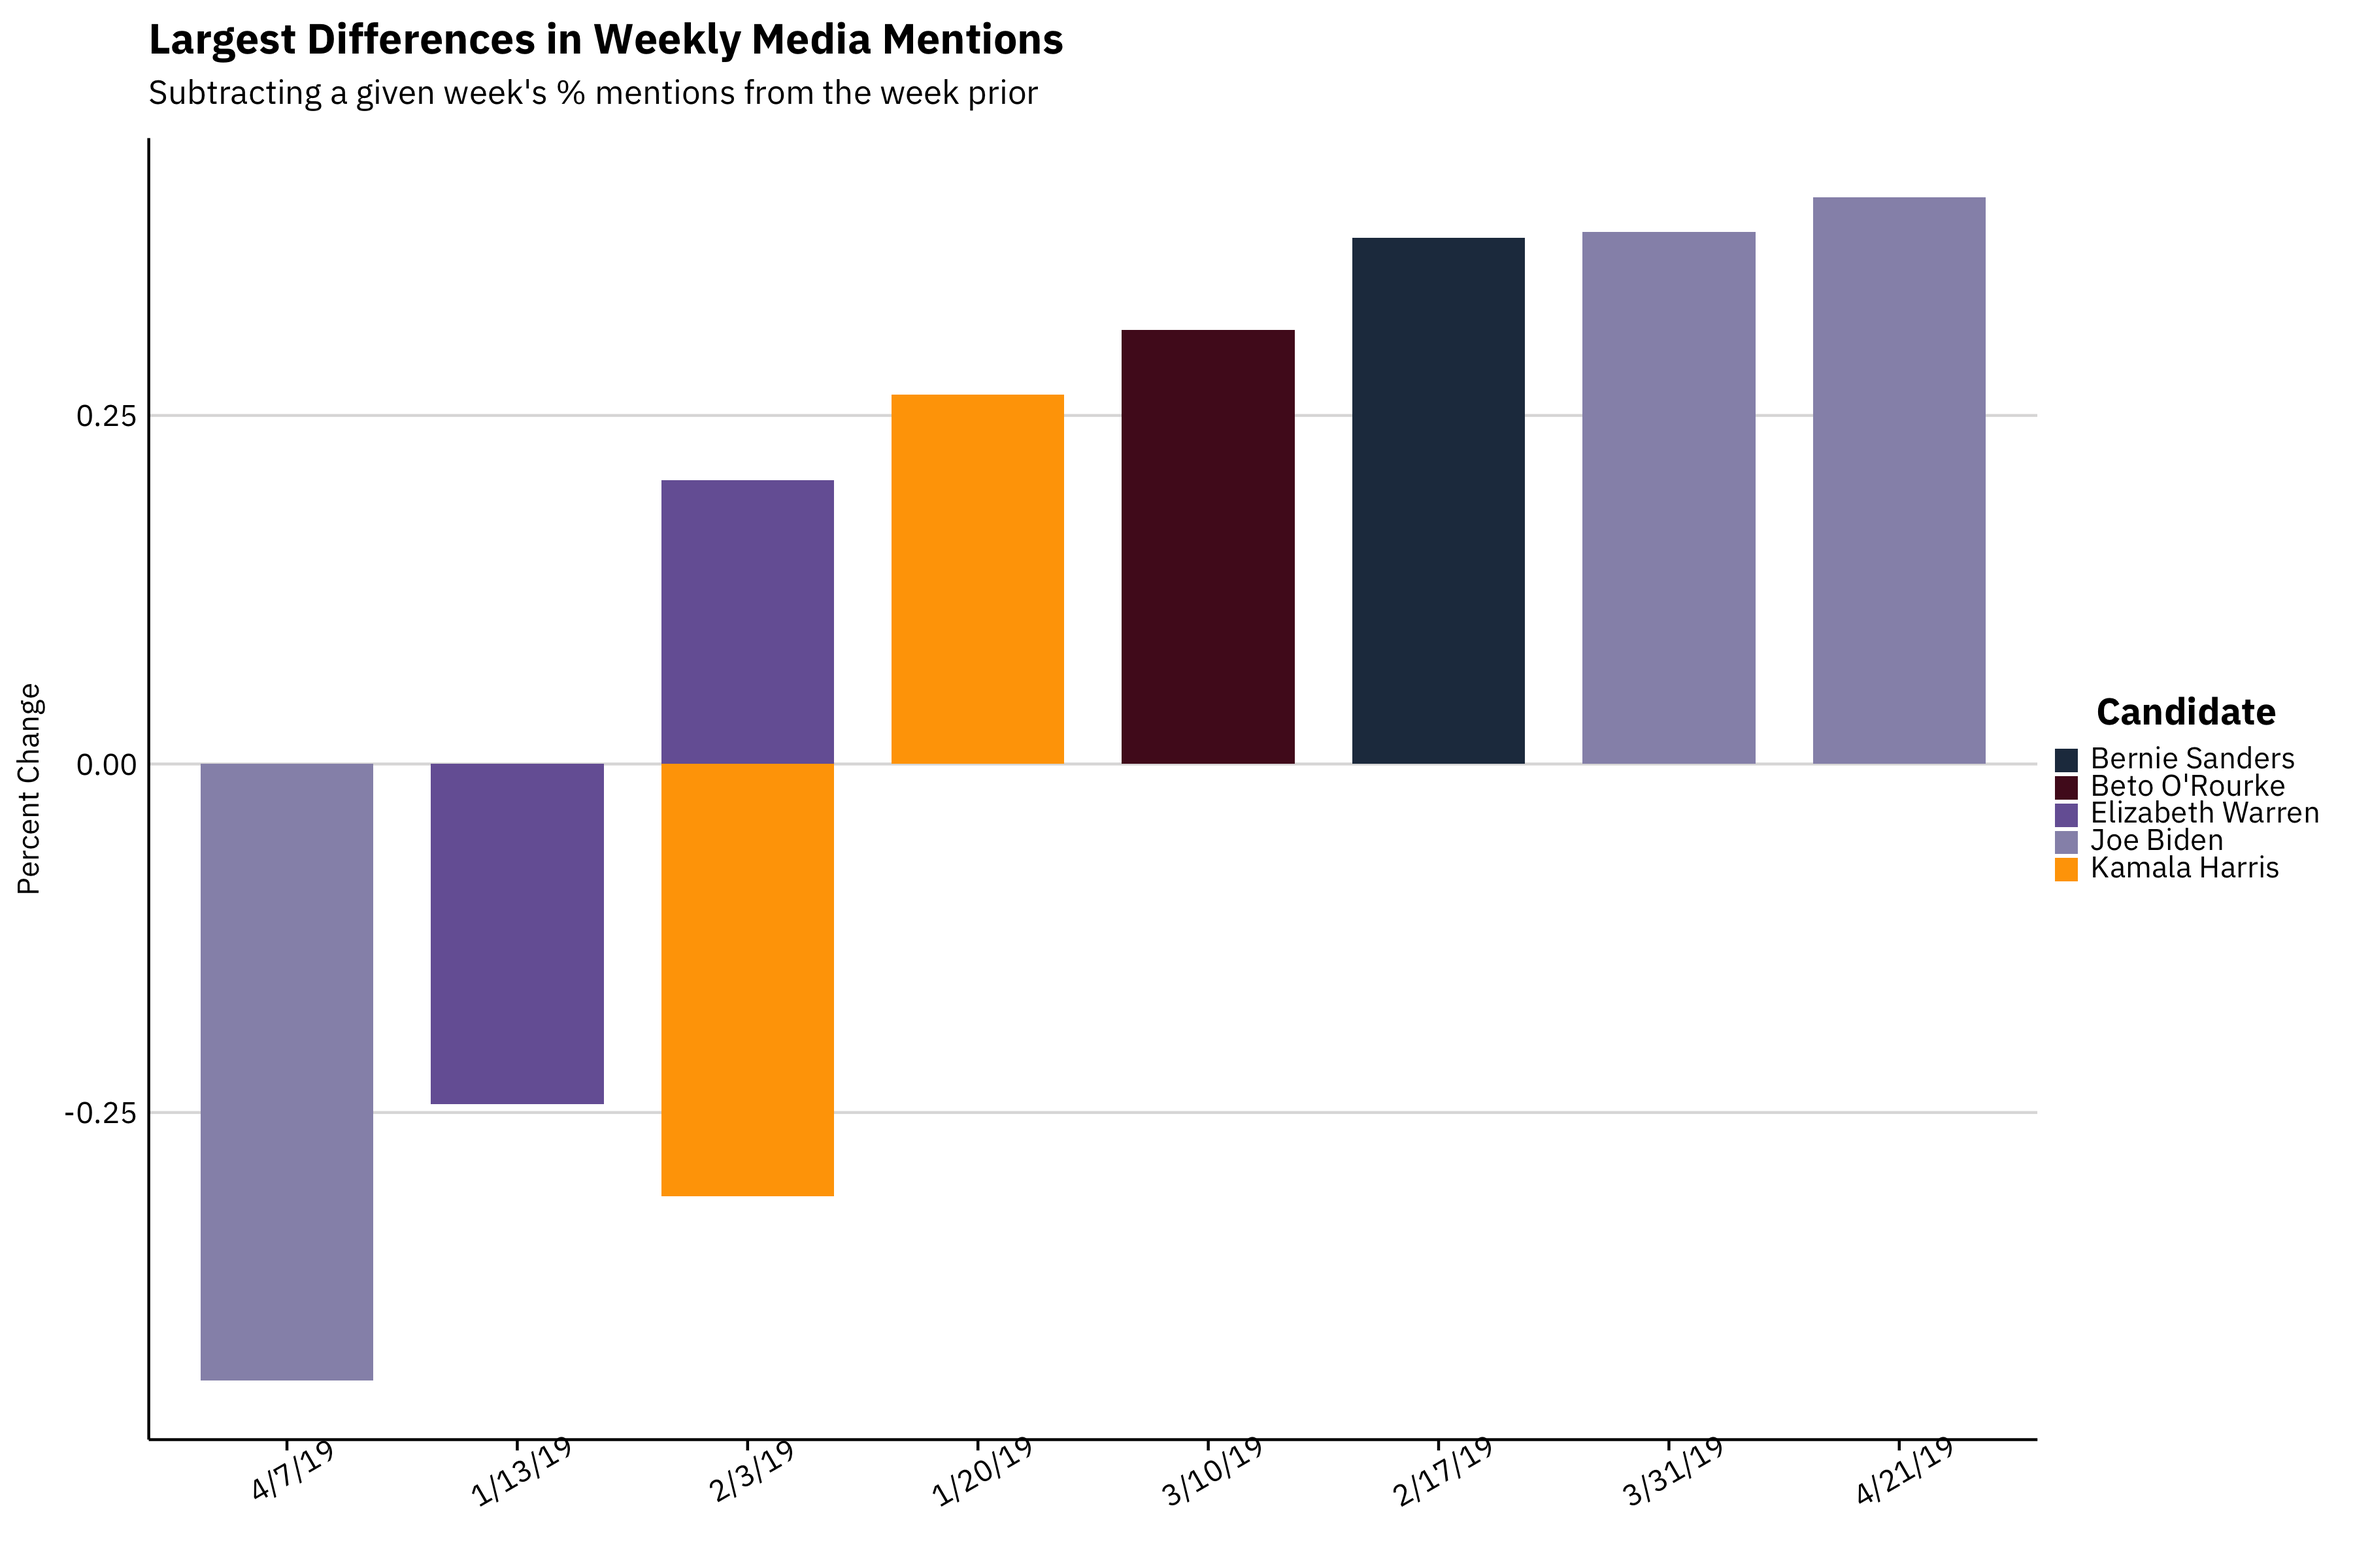
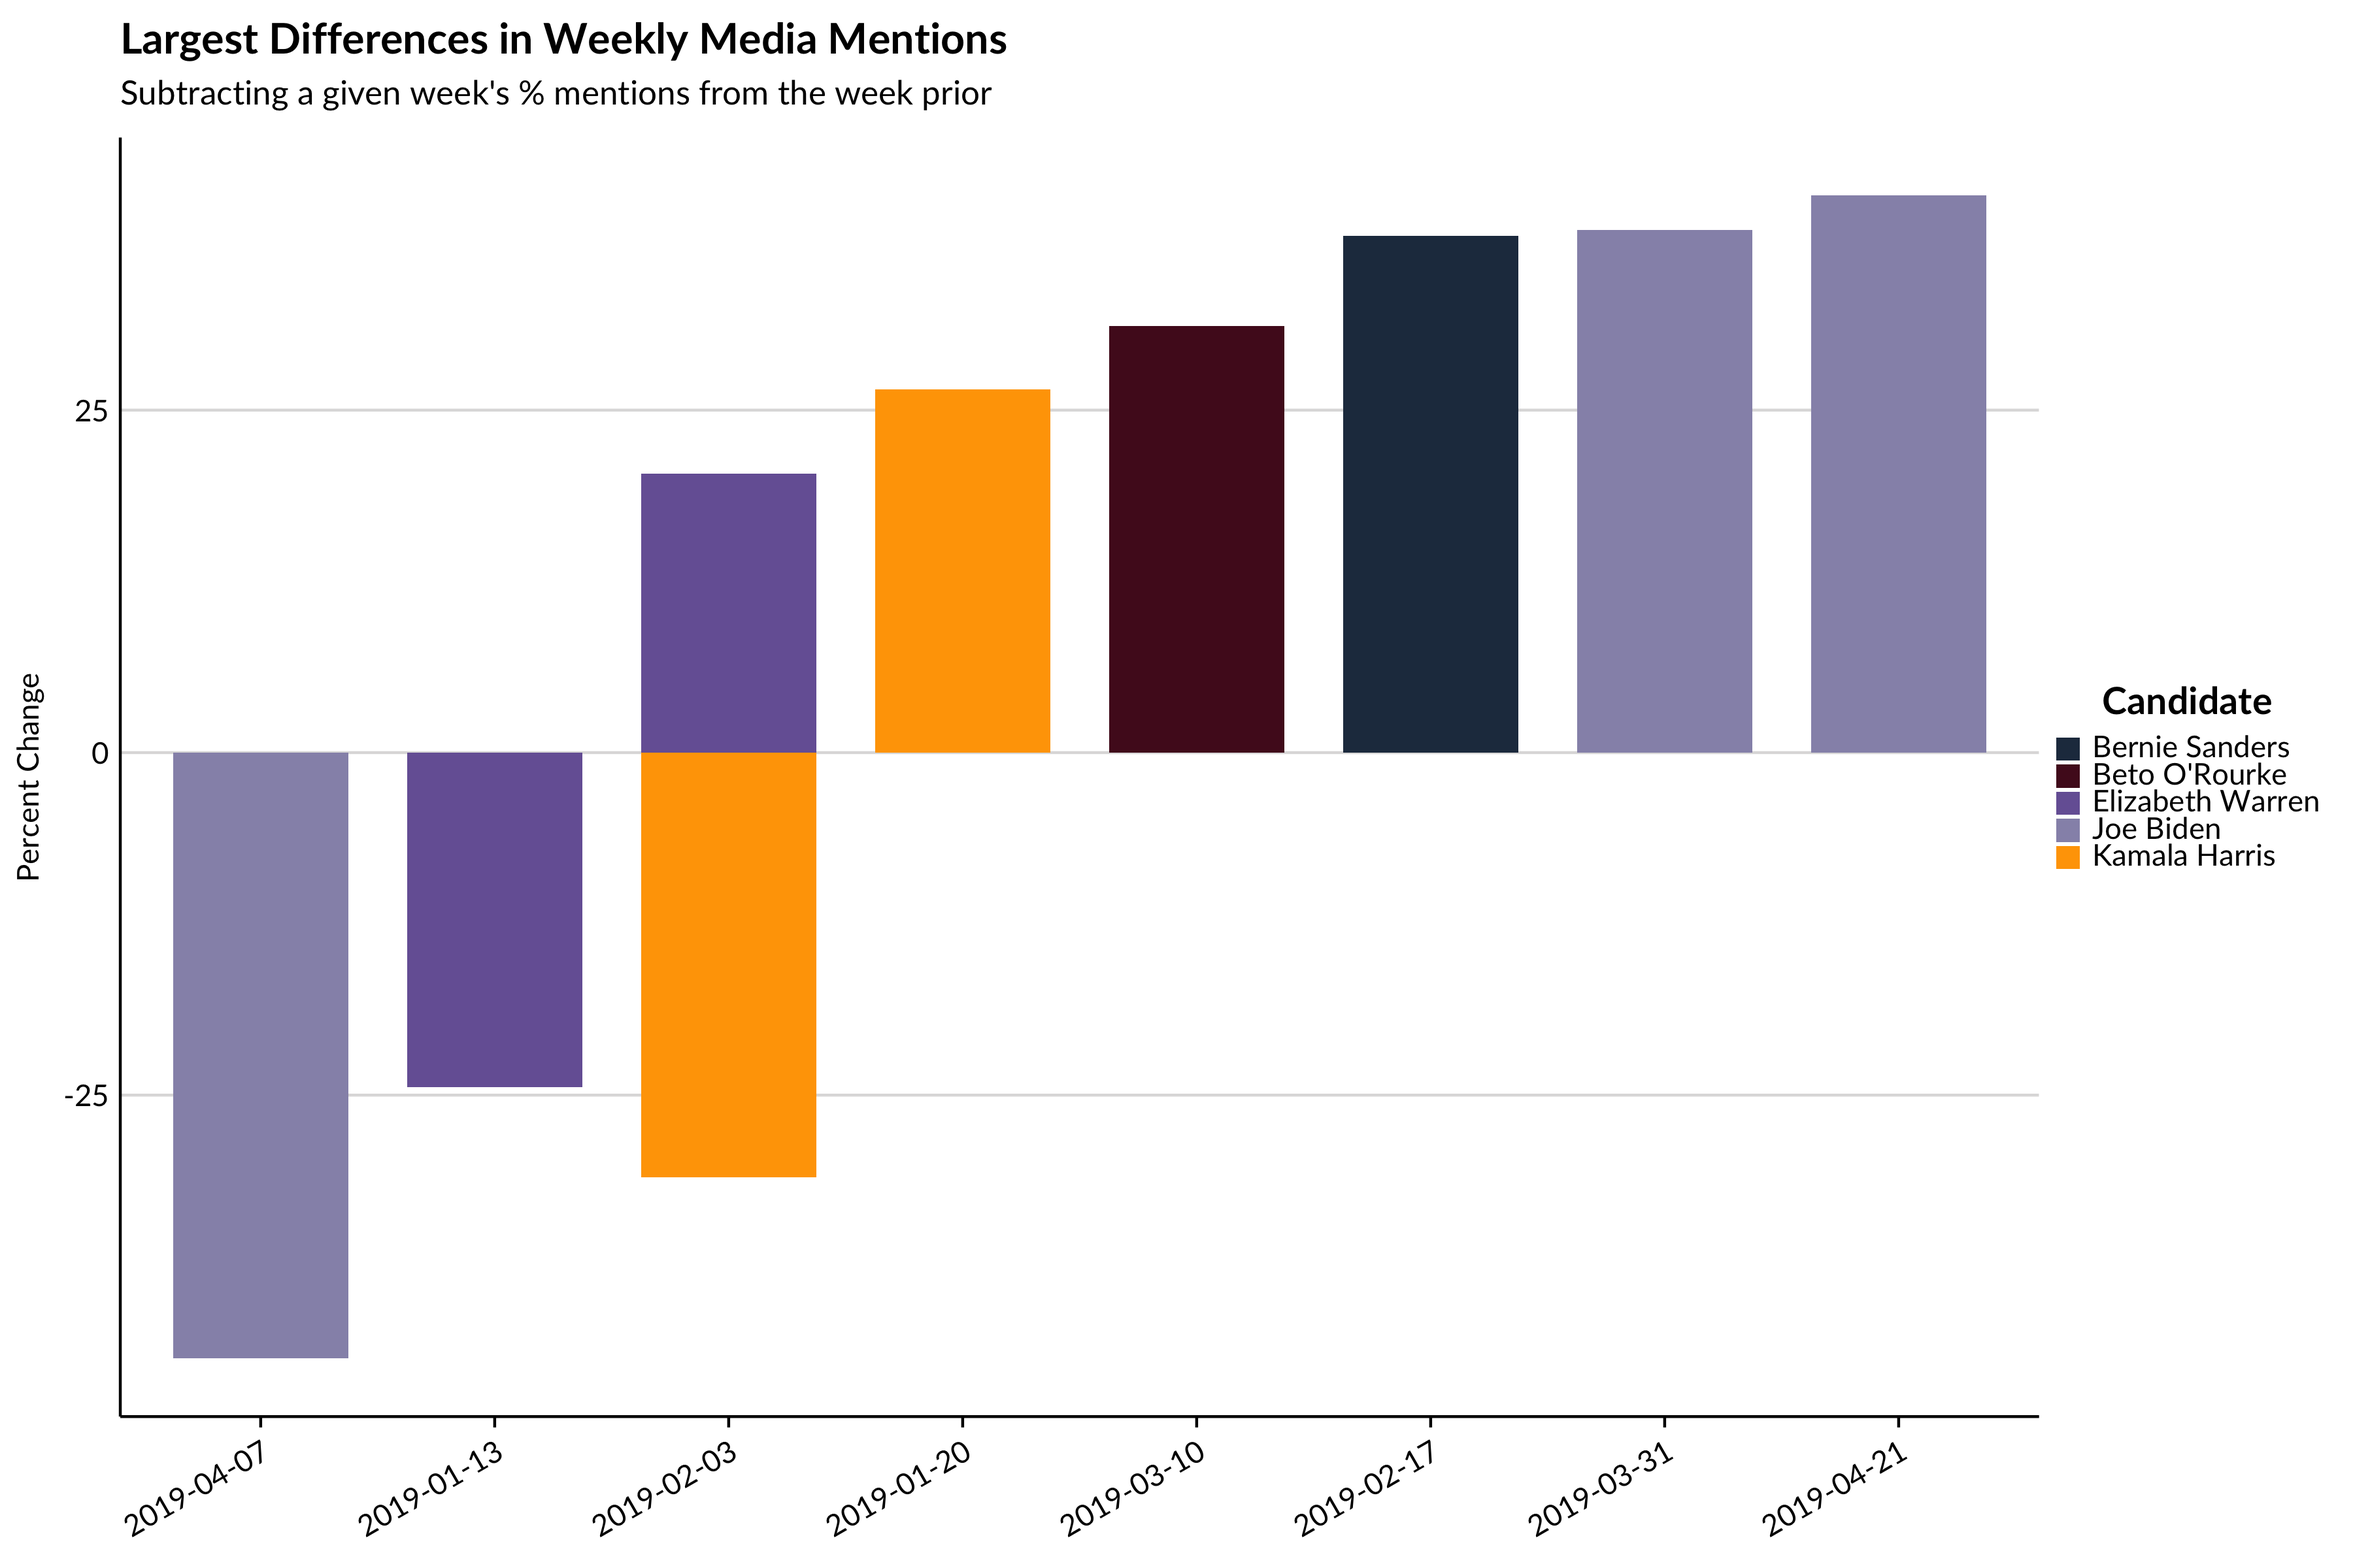
fix post figs

diff --git a/_posts/2019-05-30-media-mentions.md b/_posts/2019-05-30-media-mentions.md
@@ -40,19 +40,22 @@ set_cr_theme(font = "lato")
 
 data <- read.csv("https://raw.githubusercontent.com/connorrothschild/media-mentions/master/data.csv", header = T)
   #read.csv(("https://raw.githubusercontent.com/fivethirtyeight/data/master/media-mentions-2020/cable_weekly.csv"), header=T)
+
+data <- data %>% 
+  mutate(date = as.Date(date, "%m/%d/%y"))
 {% endhighlight %}
 
 The dataset contains information on 22 presidential candidates, recording weekly the number of clips which mention a presidential candidate (*matched_clips*) and dividing them by the total number of clips that week (*total_clips*) to reveal the percent (*pct_of_all_candidate_clips*) of clips which mention that candidate.
 
 
-|name         |date     | pct_of_all_candidate_clips| matched_clips| total_clips|
-|:------------|:--------|--------------------------:|-------------:|-----------:|
-|John Delaney |12/30/18 |                  0.0039432|             5|       76029|
-|John Delaney |1/6/19   |                  0.0019589|             2|       82964|
-|John Delaney |1/13/19  |                  0.0081566|             5|       82521|
-|John Delaney |1/20/19  |                  0.0020182|             2|       83649|
-|John Delaney |1/27/19  |                  0.0015723|             3|       80994|
-|John Delaney |2/3/19   |                  0.0006901|             1|       79183|
+|name         |date       | pct_of_all_candidate_clips| matched_clips| total_clips|
+|:------------|:----------|--------------------------:|-------------:|-----------:|
+|John Delaney |2018-12-30 |                  0.0039432|             5|       76029|
+|John Delaney |2019-01-06 |                  0.0019589|             2|       82964|
+|John Delaney |2019-01-13 |                  0.0081566|             5|       82521|
+|John Delaney |2019-01-20 |                  0.0020182|             2|       83649|
+|John Delaney |2019-01-27 |                  0.0015723|             3|       80994|
+|John Delaney |2019-02-03 |                  0.0006901|             1|       79183|
 
 Of interest to us is the *name* of each candidate and the percent (*pct_of_all_candidate_clips*) of media mentions they receive on a weekly basis.
 
@@ -64,15 +67,15 @@ We can begin with a simple analysis of which candidates are discussed most frequ
 {% highlight r %}
 data %>% 
   group_by(name) %>% 
-  summarise(pct_of_all_candidate_clips = mean(pct_of_all_candidate_clips)) %>% 
+  summarise(pct_of_all_candidate_clips = mean(pct_of_all_candidate_clips)*100) %>% 
   top_n(12, wt = pct_of_all_candidate_clips) %>% 
   ggplot(aes(x=reorder(name,pct_of_all_candidate_clips),y=pct_of_all_candidate_clips, fill=name)) +
   geom_col(show.legend=FALSE) +
   coord_flip() +
+  fix_bars() +
   labs(x=element_blank(),
        y="Percent of Media Mentions",
-       title="Average Proportion of Media Coverage on a Weekly Basis") +
-  theme_cr()
+       title="Average Proportion of Media Coverage on a Weekly Basis")
 {% endhighlight %}
 
 ![center](/figs/2019-05-30-media-mentions/unnamed-chunk-2-1.png)
@@ -85,26 +88,34 @@ How has that coverage changed over time?
 {% highlight r %}
 data %>% 
   group_by(name) %>% 
-  filter(mean(pct_of_all_candidate_clips) > .05) %>% # filter out unpopular candidates for plot clarity
-  ggplot(aes(x=date,y=pct_of_all_candidate_clips,group=name, color=name)) +
+  filter(mean(pct_of_all_candidate_clips) > .06) %>% # filter out unpopular candidates for plot clarity
+  ggplot(aes(x=as.Date(date),y=pct_of_all_candidate_clips*100,group=name, color=name)) +
   geom_point() +
-  geom_line() +
+  geom_smooth(se = FALSE, show.legend = FALSE) +
+  # geom_text(data = subset(data, as.numeric(date) == 21 & mean(pct_of_all_candidate_clips) > .05), 
+  #           aes(x = 21, label = name, color = "#000000"), hjust = -.05, 
+  #           show.legend = FALSE) + 
   geom_label_repel(data=subset(data, pct_of_all_candidate_clips>.6),
           label = "Lucy Flores accuses Biden of \n inappropriate touching",
-                   nudge_x = -50, nudge_y=-.05,
+                   nudge_x = -25, nudge_y=-5,
                    show.legend = FALSE,
                    color="black") + 
   geom_label_repel(data=subset(data, pct_of_all_candidate_clips > .58 & pct_of_all_candidate_clips <.6),
           label = "Joe Biden announces candidacy",
-           nudge_x = -3, nudge_y=-.08,
+           nudge_x = -5, nudge_y=-7,
            show.legend = FALSE,
            color="black") +
-  theme_cr() +
-  theme(axis.text.x = element_text(angle = 65)) +
+  # theme(axis.text.x = element_text(angle = 65, hjust = 1)) +
+  # coord_cartesian(clip = 'off') +
+  # # scale_x_discrete(breaks = c("1/20/19", "2/10/19","3/10/19","3/31/19","4/28/19"),
+  # #                  labels = c("January", "February", "March", "April", "May")) +
+  # # theme(plot.margin = margin(5.5, 100, 5.5, 5.5)) +
   labs(x=element_blank(),
        y="Percent of Media Mentions",
-       title="Media Mentions of Candidates Over Time") +
-  scale_color_discrete(name="Candidate")
+       title="Media Mentions of Candidates Over Time") + 
+  scale_color_discrete(name="Candidate", 
+                       limits = c("Joe Biden", "Bernie Sanders", "Elizabeth Warren", 
+                                  "Kamala Harris", "Beto O'Rourke", "Cory Booker"))
 {% endhighlight %}
 
 ![center](/figs/2019-05-30-media-mentions/unnamed-chunk-3-1.png)
@@ -117,7 +128,7 @@ data %>%
   group_by(name) %>% 
   filter(mean(pct_of_all_candidate_clips) > 0.1) %>% 
   ungroup() %>% 
-ggplot(aes(x = pct_of_all_candidate_clips, y = reorder(name,pct_of_all_candidate_clips), fill=name, color=name)) +
+ggplot(aes(x = pct_of_all_candidate_clips*100, y = reorder(name,pct_of_all_candidate_clips))) +
   geom_density_ridges(aes(point_colour=name), 
                       show.legend = FALSE, 
                       alpha = .2, 
@@ -126,8 +137,7 @@ ggplot(aes(x = pct_of_all_candidate_clips, y = reorder(name,pct_of_all_candidate
   labs(x = "Percent of Media Mentions",
        y=element_blank(),
        title="Media Mentions of Each Candidate",
-       subtitle="With density ridges depicting average mentions on a weekly basis") +
-  theme_cr() 
+       subtitle="With density ridges depicting average mentions on a weekly basis") 
 {% endhighlight %}
 
 ![center](/figs/2019-05-30-media-mentions/unnamed-chunk-4-1.png)
@@ -144,11 +154,10 @@ data %>%
   group_by(name) %>% 
   mutate(change = (pct_of_all_candidate_clips-(dplyr::lag(pct_of_all_candidate_clips, n=1, default=NA)))) %>% 
   filter(change >.2 | change < -.2) %>% 
-  ggplot(aes(x=reorder(as.factor(date),change),y=change, fill=name)) +
+  ggplot(aes(x=reorder(as.factor(date),change),y=change*100, fill=name)) +
   geom_col() +
   scale_fill_discrete(name="Candidate") +
-  theme_cr() +
-  theme(axis.text.x = element_text(angle = 30)) +
+  theme(axis.text.x = element_text(angle = 30, hjust = 1)) +
   labs(x=element_blank(),
        y="Percent Change",
        title="Largest Differences in Weekly Media Mentions",
@@ -207,8 +216,12 @@ recentdata %>%
             aes(x = date, hjust = 1.2)) +
   geom_text(data = subset(finranking), size=3, 
             aes(x = date, hjust = -.2)) +
-  theme_cr() +
-  theme(legend.position = "none") +
+  theme(line = element_blank(), rect = element_blank(), axis.text = element_blank(), 
+        axis.title = element_blank(),
+        axis.ticks.length = unit(0, "pt"), axis.ticks.length.x = NULL, 
+        axis.ticks.length.x.top = NULL, axis.ticks.length.x.bottom = NULL, 
+        axis.ticks.length.y = NULL, axis.ticks.length.y.left = NULL, 
+        axis.ticks.length.y.right = NULL, legend.box = NULL, legend.position = "none") +
   labs(x = element_blank(),
        y = "Rank",
        title = "The Race for Media Attention",
